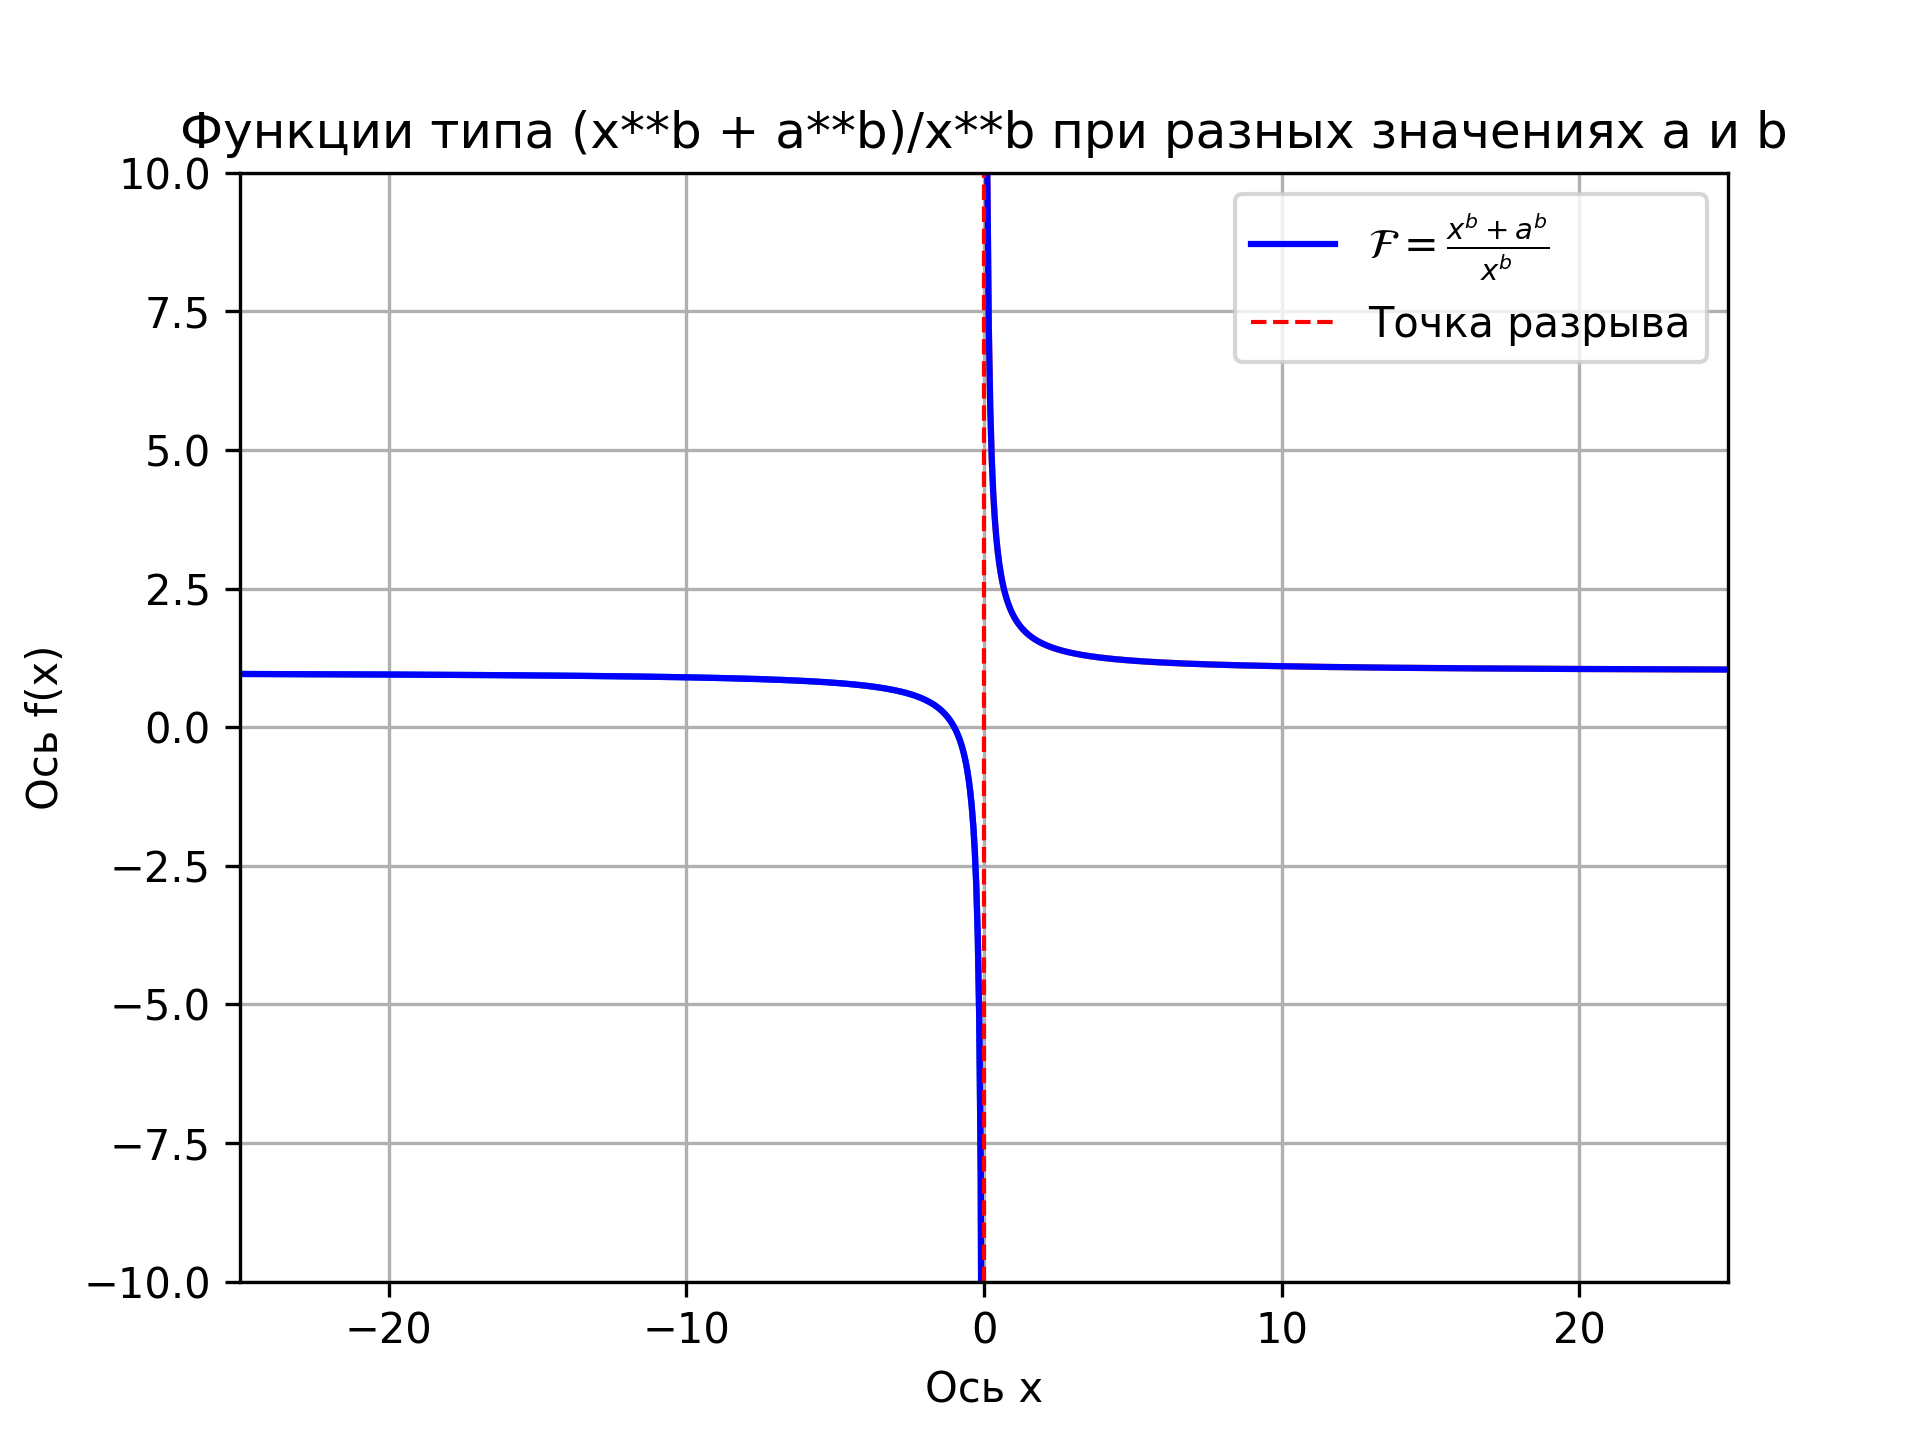
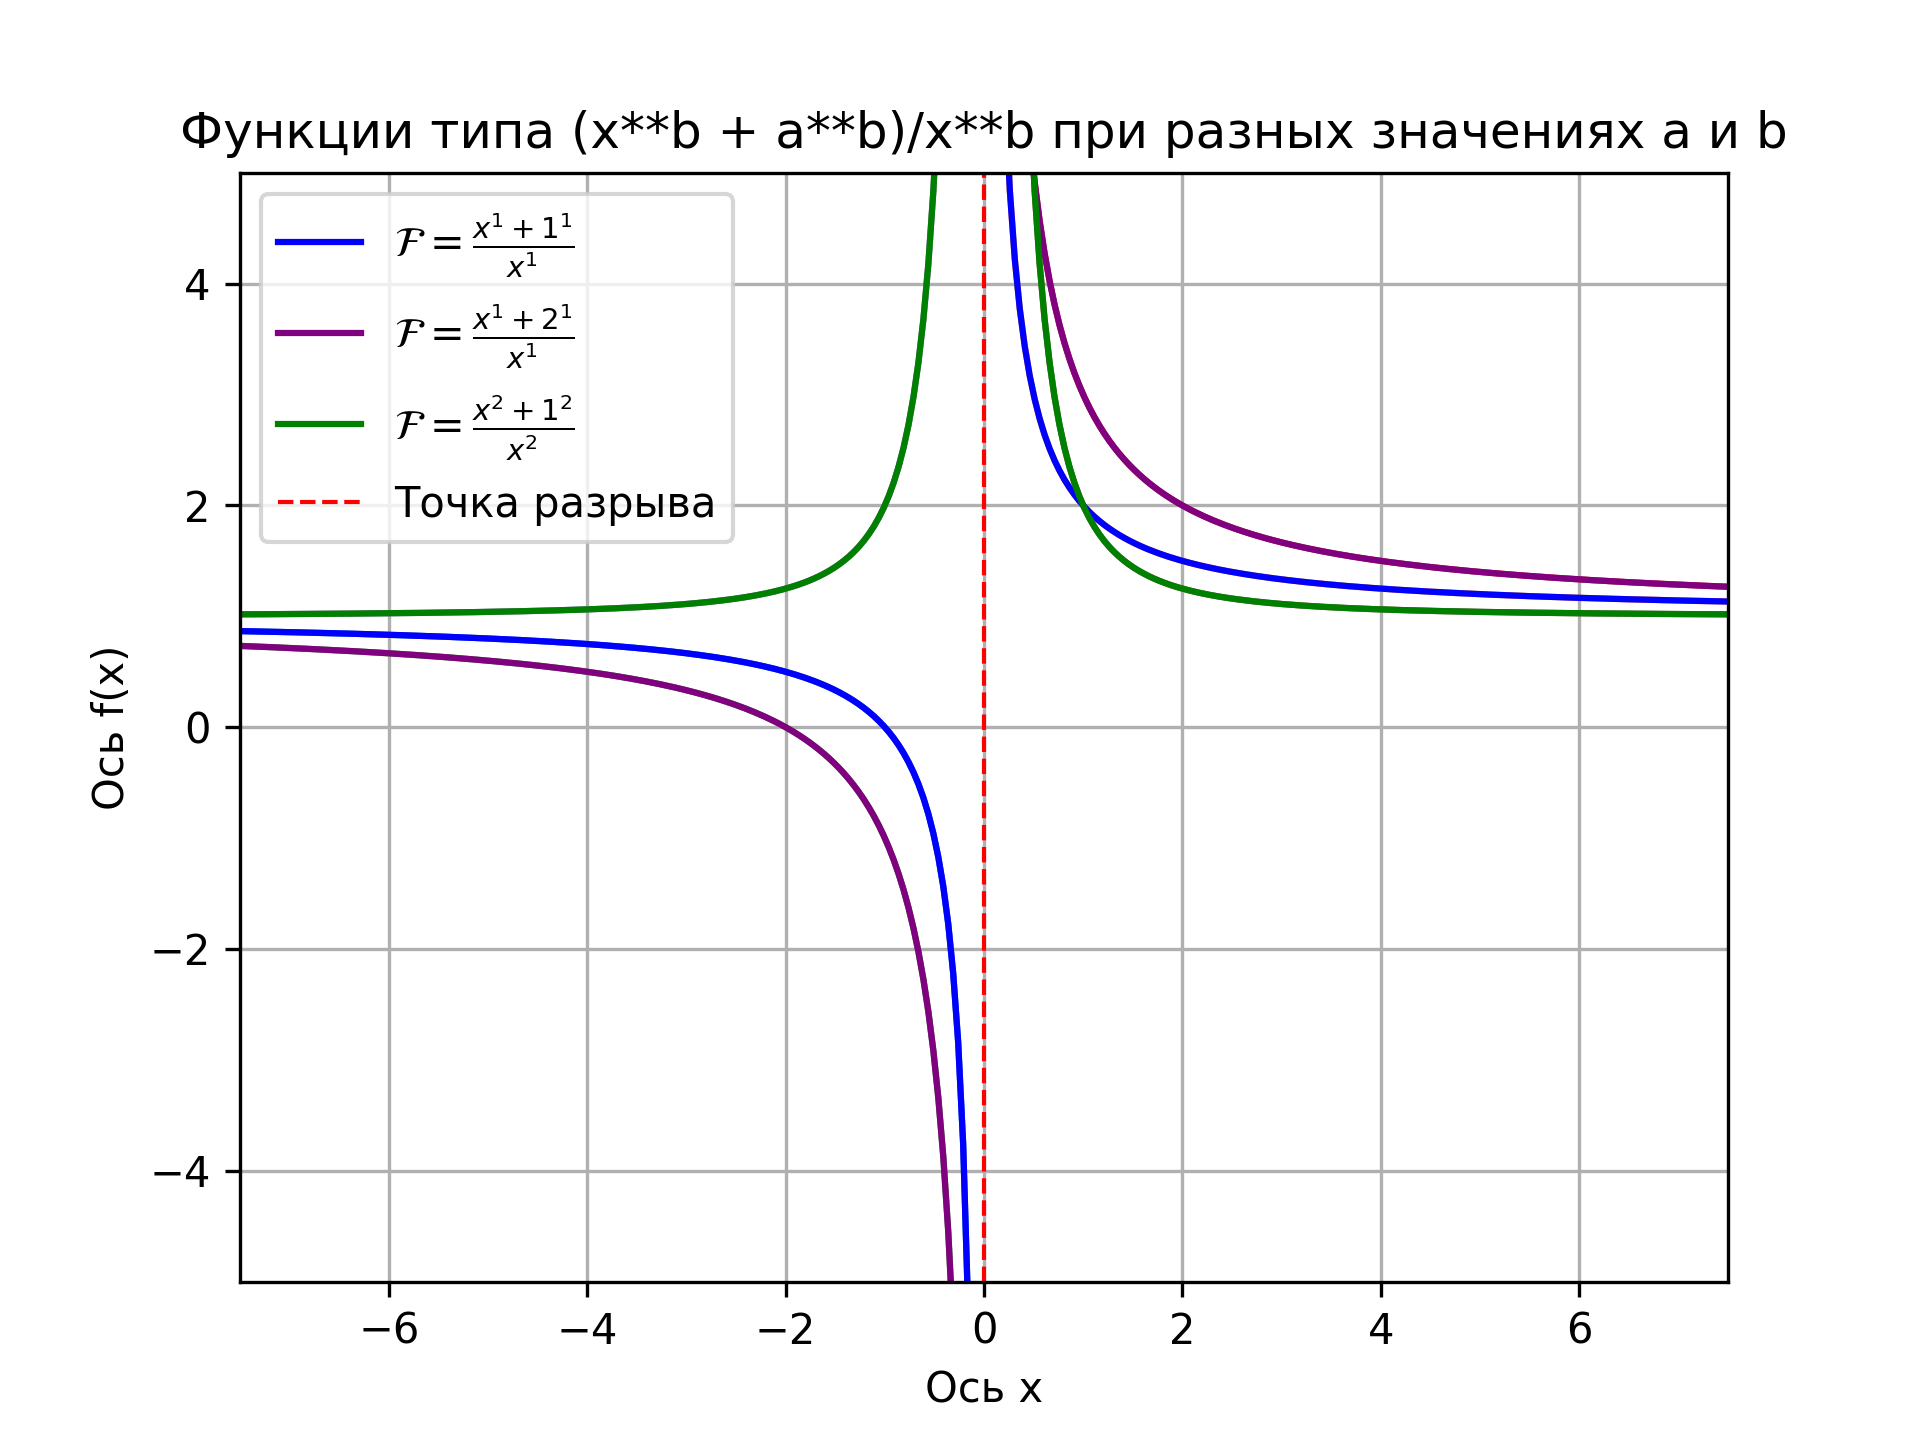
commit

diff --git a/zadaniya/zadanie9/zadanie9_4.py b/zadaniya/zadanie9/zadanie9_4.py
@@ -6,7 +6,7 @@ p=0 # асимптота
 x1 = np.linspace(-25, p - 0.01, 500) #граница изнений аргумента в левой части графика
 x2 = np.linspace(p + 0.01, 25 , 500) #граница изнений аргумента в правой части графика
 a=1 #параметр а
-b=1 #параметр b, степень
+b=0.5 #параметр b, степень
 dir = os.getcwd()
 def f(x):
     return (x**b + a**b)/x**b #расчет функции для певрого
@@ -18,13 +18,13 @@ def u(x):
 #ПАРАМЕТРЫ ДЛЯ ВТОРОГО
 x11 = np.linspace(-25, p - 0.01, 500)
 x21 = np.linspace(25, p + 0.01, 500)
-d=2
-h=1
+d= 1
+h= -0.5
 #ПАРАМЕТРЫ ДЛЯ ТРЕТЬЕГО
 x12 = np.linspace(-25, p - 0.01, 500)
 x22 = np.linspace(25, p + 0.01, 500)
-c=1
-v=2
+c= 1
+v= -1.5
 #ПОСТРОЕНИЕ ПЕРВОГО
 l1=plt.plot (x1, f(x1)) #расчет точек графика для левой части
 l2=plt.plot (x2, f(x2)) #расчет точек графика для правой части
@@ -35,13 +35,13 @@ l2=plt.plot (x21, g(x21))
 l1=plt.plot (x12, u(x12))
 l2=plt.plot (x22, u(x22))
 #ВЫВОД ПЕРВОГО
-plt.plot (x1, f(x1), color='blue', label=r"$\mathcal{F} = \frac{x^1+1^1}{x^1}$") #вывод левой части
+plt.plot (x1, f(x1), color='blue', label=r"$\mathcal{F} = \frac{x^(0.5)+1^(0.5)}{x^(0.5)}$") #вывод левой части
 plt.plot (x2, f(x2), color='blue') #вывод правой части
 #ВЫВОД ВТОРОГО
-plt.plot (x11, g(x11), color='purple', label=r"$\mathcal{F} = \frac{x^1+2^1}{x^1}$")
+plt.plot (x11, g(x11), color='purple', label=r"$\mathcal{F} = \frac{x^(-0.5)+1^(-0.5)}{x^(-0.5)}$")
 plt.plot (x21, g(x21), color='purple')
 #ВЫВОД ТРЕТЬЕГО
-plt.plot (x12, u(x12), color='green', label=r"$\mathcal{F} = \frac{x^2+1^2}{x^2}$")
+plt.plot (x12, u(x12), color='green', label=r"$\mathcal{F} = \frac{x^(-1.5)+1^(-1.5)}{x^(-1.5)}$")
 plt.plot (x22, u(x22), color='green')
 #ВЫВОД АСИМПТОТЫ
 plt.axvline(p, color='red', linestyle='--', label='Точка разрыва', linewidth=1) #строим асимптоту
@@ -49,8 +49,8 @@ plt.xlabel('Ось х')
 plt.ylabel('Ось f(x)')
 plt.grid(True) #вывод сетки
 plt.legend() #вывод легенды
-plt.xlim(-7.5,7.5) #задаем диапозон построения x
-plt.ylim(-5,5) #задаем диапозон построения y
+plt.xlim(-1,15) #задаем диапозон построения x
+plt.ylim(-1,10) #задаем диапозон построения y
 plt.title('Функции типа (x**b + a**b)/x**b при разных значениях a и b')#название
-plt.savefig(dir + '/zadanie9_1', dpi=300)
+plt.savefig(dir + '/zadanie9_4', dpi=300)
 plt.show() #вывод графика в окно

diff --git a/zadaniya/zadanie9/zadanie9_2.py b/zadaniya/zadanie9/zadanie9_2.py
@@ -1,25 +1,44 @@
-import numpy as np # вводим mathplotlib
+import numpy as np
 import os
 from matplotlib import pyplot as plt
-p=0
-x1 = np.linspace(-25, p - 0.01, 500)
-x2 = np.linspace(25, p + 0.01, 500)
-a=2
-b=1
+p=0 
+#ПАРАМЕТРЫ ДЛЯ ПЕРВОГО
+x1 = np.linspace(p + 0.01, 25, 500)
+a=1
+b=1 
+y1=(x1**b + a**b)/x1**b
+#ПАРАМЕТРЫ ДЛЯ ВТОРОГО
+x2 = np.linspace(-p + 0.01, 25, 500)
+d=2
+h=1
+y2=(x2**h + d**h)/x2**h
+#ПАРАМЕТРЫ ДЛЯ ТРЕТЬЕГО
+x3 = np.linspace(p + 0.01, 25, 500)
+c=1
+v=2
+y3=(x3**v + c**v)/x3**v
+
+
 dir = os.getcwd()
-def f(x):
-    return (x**b + a**b)/x**b
-l1=plt.plot (x1, f(x1))
-l2=plt.plot (x2, f(x2))
-plt.plot (x1, f(x1), color='blue', label=r"$\mathcal{F} = \frac{x^b+a^b}{x^b}$")
-plt.plot (x2, f(x2), color='blue')
+fig = plt.figure()
+#ВЫВОД АСИМПТОТЫ И ТРЕХ ГРАФИКОВ
+plt.plot (x1, y1, color='blue', label=r"$\mathcal{F} = \frac{x^1+1^1}{x^1}$")
+plt.plot (x2, y2, color='purple', label=r"$\mathcal{F} = \frac{x^1+2^1}{x^1}$")
+plt.plot (x3, y3, color='green', label=r"$\mathcal{F} = \frac{x^2+1^2}{x^2}$")
 plt.axvline(p, color='red', linestyle='--', label='Точка разрыва', linewidth=1)
-plt.xlabel('Ось х')
-plt.ylabel('Ось f(x)')
-plt.grid(True)
-plt.legend()
-plt.xlim(-25,25)
-plt.ylim(-10,10)
-plt.title('Функции типа (x**b + a**b)/x**b при разных значениях a и b')
+plt.xlabel('Ось х') #название x
+plt.ylabel('Ось f(x)') #название y
+plt.grid(True) #вывод сетки
+plt.legend() #вывод легенды
+plt.xlim(-0.5, 20) #задаем диапозон построения x
+plt.ylim(0,20) #задаем диапозон построения y
+plt.title('Функции типа (x**b + a**b)/x**b при разных значениях a и b')#название
+
+#создание врезки
+axes2 = fig.add_axes([0.35,0.62,0.25,0.25]) #расположение врезки и её размер
+axes2.plot(x1, y1, 'b', x2, y2, 'purple', x3, y3, 'green') #добавляем графики на врезку
+plt.xlim(0,6) #задаем диапозон построения x
+plt.ylim(1,6) #задаем диапозон построения y
+plt.grid(True) #вывод сетки
 plt.savefig(dir + '/zadanie9_2', dpi=300)
-plt.show()
+plt.show() #вывод графика в окно

diff --git a/zadaniya/zadanie9/zadanie9_3.py b/zadaniya/zadanie9/zadanie9_3.py
@@ -1,25 +1,45 @@
 import numpy as np
 import os
 from matplotlib import pyplot as plt
-p=0
+p=0 
+#ПАРАМЕТРЫ ДЛЯ ПЕРВОГО
 x1 = np.linspace(-25, p - 0.01, 500)
-x2 = np.linspace(25, p + 0.01, 500)
 a=1
-b=2
+b=1 
+y1=(x1**b + a**b)/x1**b
+#ПАРАМЕТРЫ ДЛЯ ВТОРОГО
+x2 = np.linspace(-25, p - 0.01, 500)
+d=2
+h=1
+y2=(x2**h + d**h)/x2**h
+#ПАРАМЕТРЫ ДЛЯ ТРЕТЬЕГО
+x3 = np.linspace(-25, p - 0.01, 500)
+c=1
+v=2
+y3=(x3**v + c**v)/x3**v
+
 dir = os.getcwd()
-def f(x):
-    return (x**b + a**b)/x**b
-l1=plt.plot (x1, f(x1))
-l2=plt.plot (x2, f(x2))
-plt.plot (x1, f(x1), color='blue', label=r"$\mathcal{F} = \frac{x^b+a^b}{x^b}$")
-plt.plot (x2, f(x2), color='blue')
+fig = plt.figure()
+#ВЫВОД АСИМПТОТЫ И ТРЕХ ГРАФИКОВ
+plt.axhline(y=0, color='black',linewidth=1)
+plt.plot (x1, y1, color='blue', label=r"$\mathcal{F} = \frac{x^1+1^1}{x^1}$")
+plt.plot (x2, y2, color='purple', label=r"$\mathcal{F} = \frac{x^1+2^1}{x^1}$")
+plt.plot (x3, y3, color='green', label=r"$\mathcal{F} = \frac{x^2+1^2}{x^2}$")
 plt.axvline(p, color='red', linestyle='--', label='Точка разрыва', linewidth=1)
-plt.xlabel('Ось х')
-plt.ylabel('Ось f(x)')
-plt.grid(True)
-plt.legend()
-plt.xlim(-25,25)
-plt.ylim(-10,10)
-plt.title('Функции типа (x**b + a**b)/x**b при разных значениях a и b')
+plt.xlabel('Ось х') #название x
+plt.ylabel('Ось f(x)') #название y
+plt.grid(True) #вывод сетки
+plt.legend() #вывод легенды
+plt.xlim(-12,0.5) #задаем диапозон построения x
+plt.ylim(-15,15) #задаем диапозон построения y
+plt.title('Функции типа (x**b + a**b)/x**b при разных значениях a и b')#название
+
+#создание врезки
+axes2 = fig.add_axes([0.18,0.16,0.25,0.25]) #расположение врезки и её размер
+axes2.plot(x1, y1, 'b', x2, y2, 'purple', x3, y3, 'green') #добавляем графики на врезку
+plt.xlim(-8,0) #задаем диапозон построения x
+plt.ylim(-3,2) #задаем диапозон построения y
+plt.grid(True) #вывод сетки
 plt.savefig(dir + '/zadanie9_3', dpi=300)
-plt.show()
+plt.show() #вывод графика в окно
+

diff --git a/testdrive.py b/testdrive.py
@@ -1,0 +1,39 @@
+
+
+
+
+
+
+
+
+
+
+
+
+
+
+
+
+
+
+
+
+
+fig = plt.figure()
+axes = fig.add_axes([0,0,1,1])
+x = [1, 2, 3, 4, 5]
+y = [10, 20, 30, 40, 50]
+axes.plot(x, y, marker='o', linestyle='-', color='b')
+
+#Добавляем врезку
+inset_ax = axes.inset_axes([0.65, 0.15, 0.25, 0.35])  # координаты и размеры врезки (левый нижний угол, ширина, высота)
+inset_ax.plot(x, y, marker='o', linestyle='-', color='r')  # данные для врезки могут отличаться от основных
+
+#Устанавливаем границы для врезки
+x1, x2, y1, y2 = 2, 4, 20, 45  # область, которую хотим увеличить во врезке
+inset_ax.set_xlim(x1, x2)
+inset_ax.set_ylim(y1, y2)
+
+# Соединяем основную ось и врезку линией
+from mpl_toolkits.axes_grid1.inset_locator import mark_inset
+mark_inset(axes, inset_ax, loc1=2, loc2=4, fc="none", ec="0.5")
